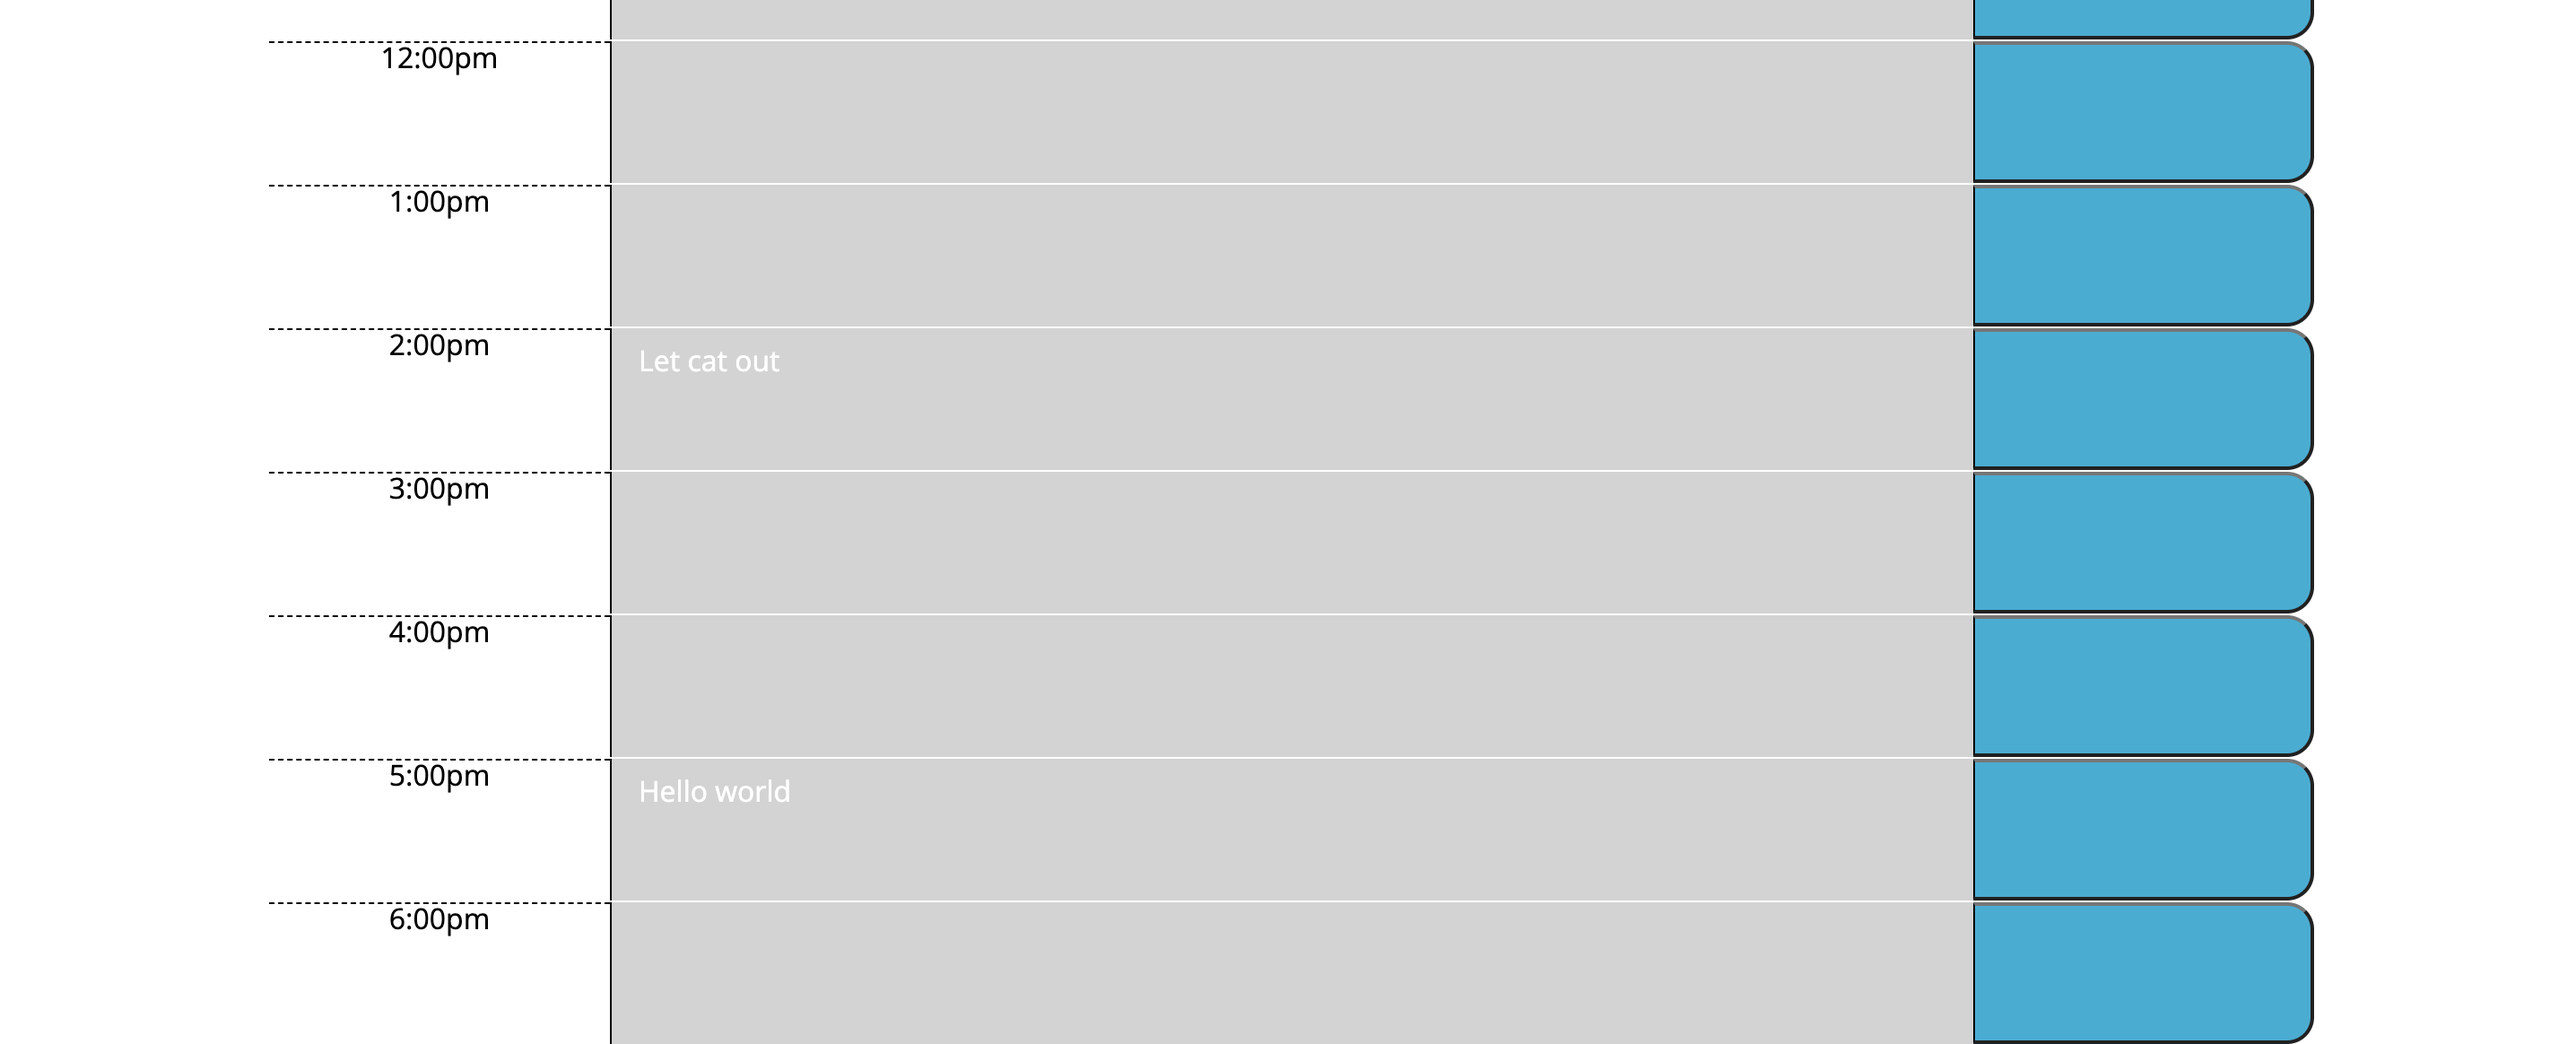
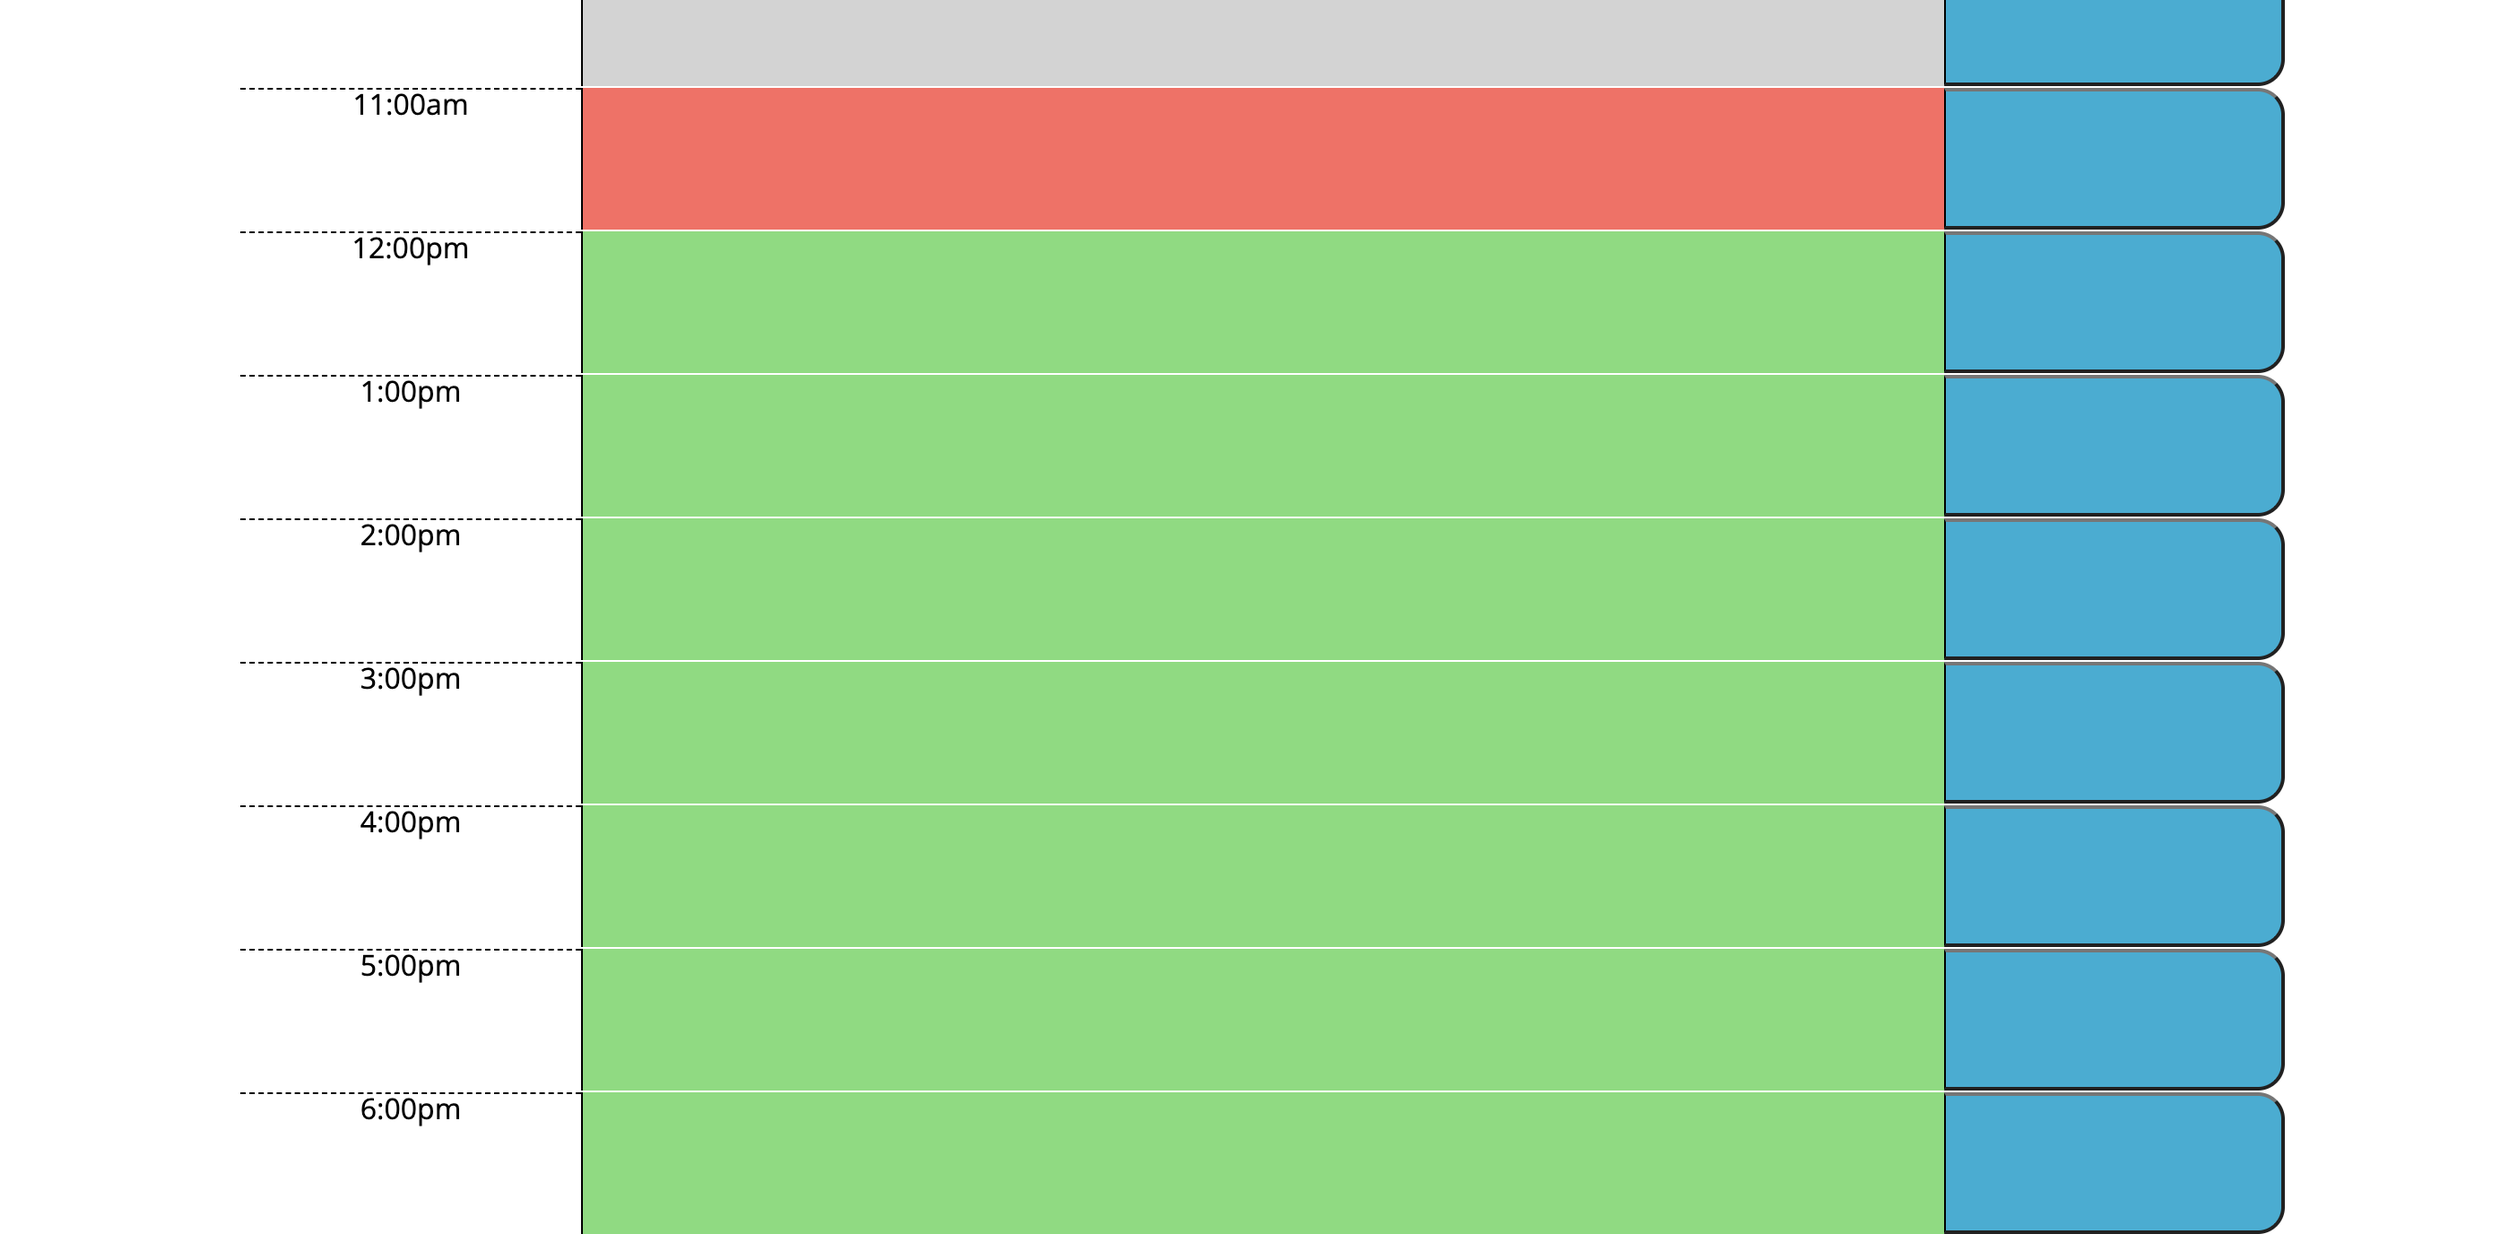
readme

diff --git a/assets/script.js b/assets/script.js
@@ -21,7 +21,8 @@ function updateTime() {
     // var timeBlocks = [9, 10, 11, 12, 13, 14, 15, 16, 17, 18]
 
     //setting a dynamic time so the colorblocks move with time 
-    var currentHour = moment().format('H');
+    var currentHour = 11
+    // var currentHour = moment().format('H');
 
 //grabbing each textarea ID from my html to run this function
 $("textarea").each 

diff --git a/README.md b/README.md
@@ -40,7 +40,7 @@ LocalStorage
 
 # Screen Shots for Design Highlight
 
-![dailycalender](./assets/1..png)
+![dailycalender](./assets/1.png)
 ![dailycalender](./assets/2.png)
 
 # Gif for Demoing Functionality
